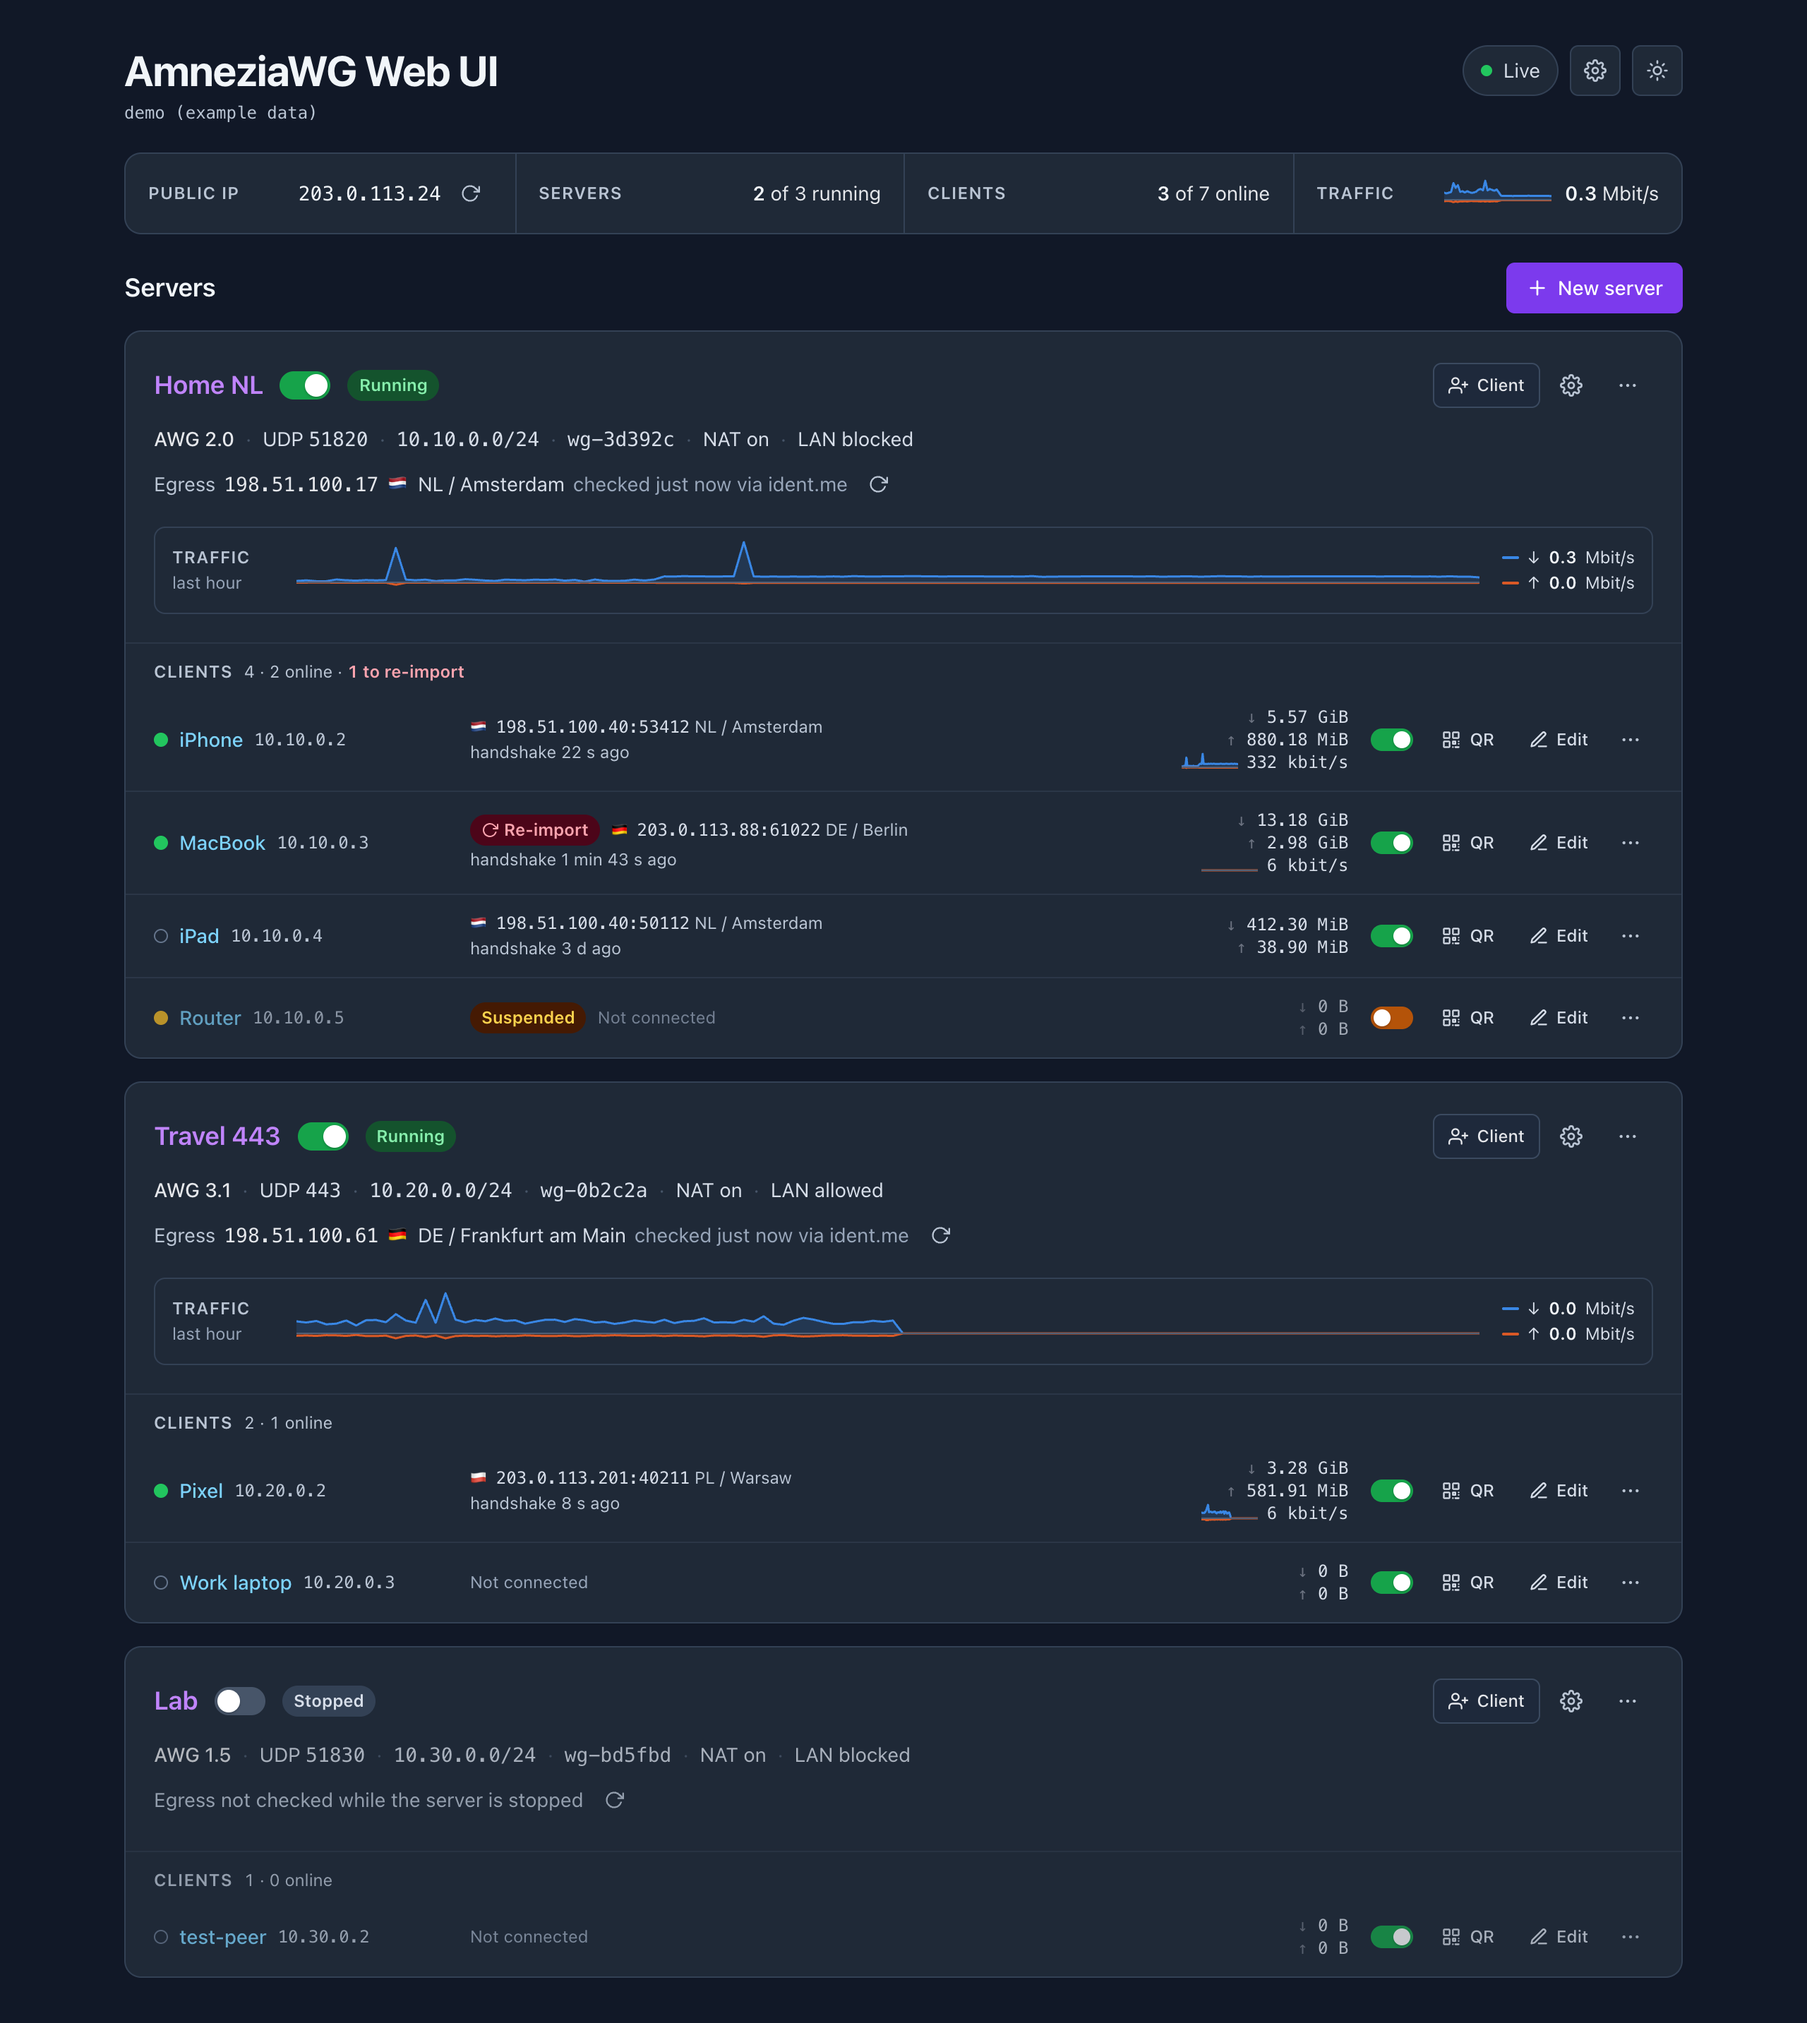
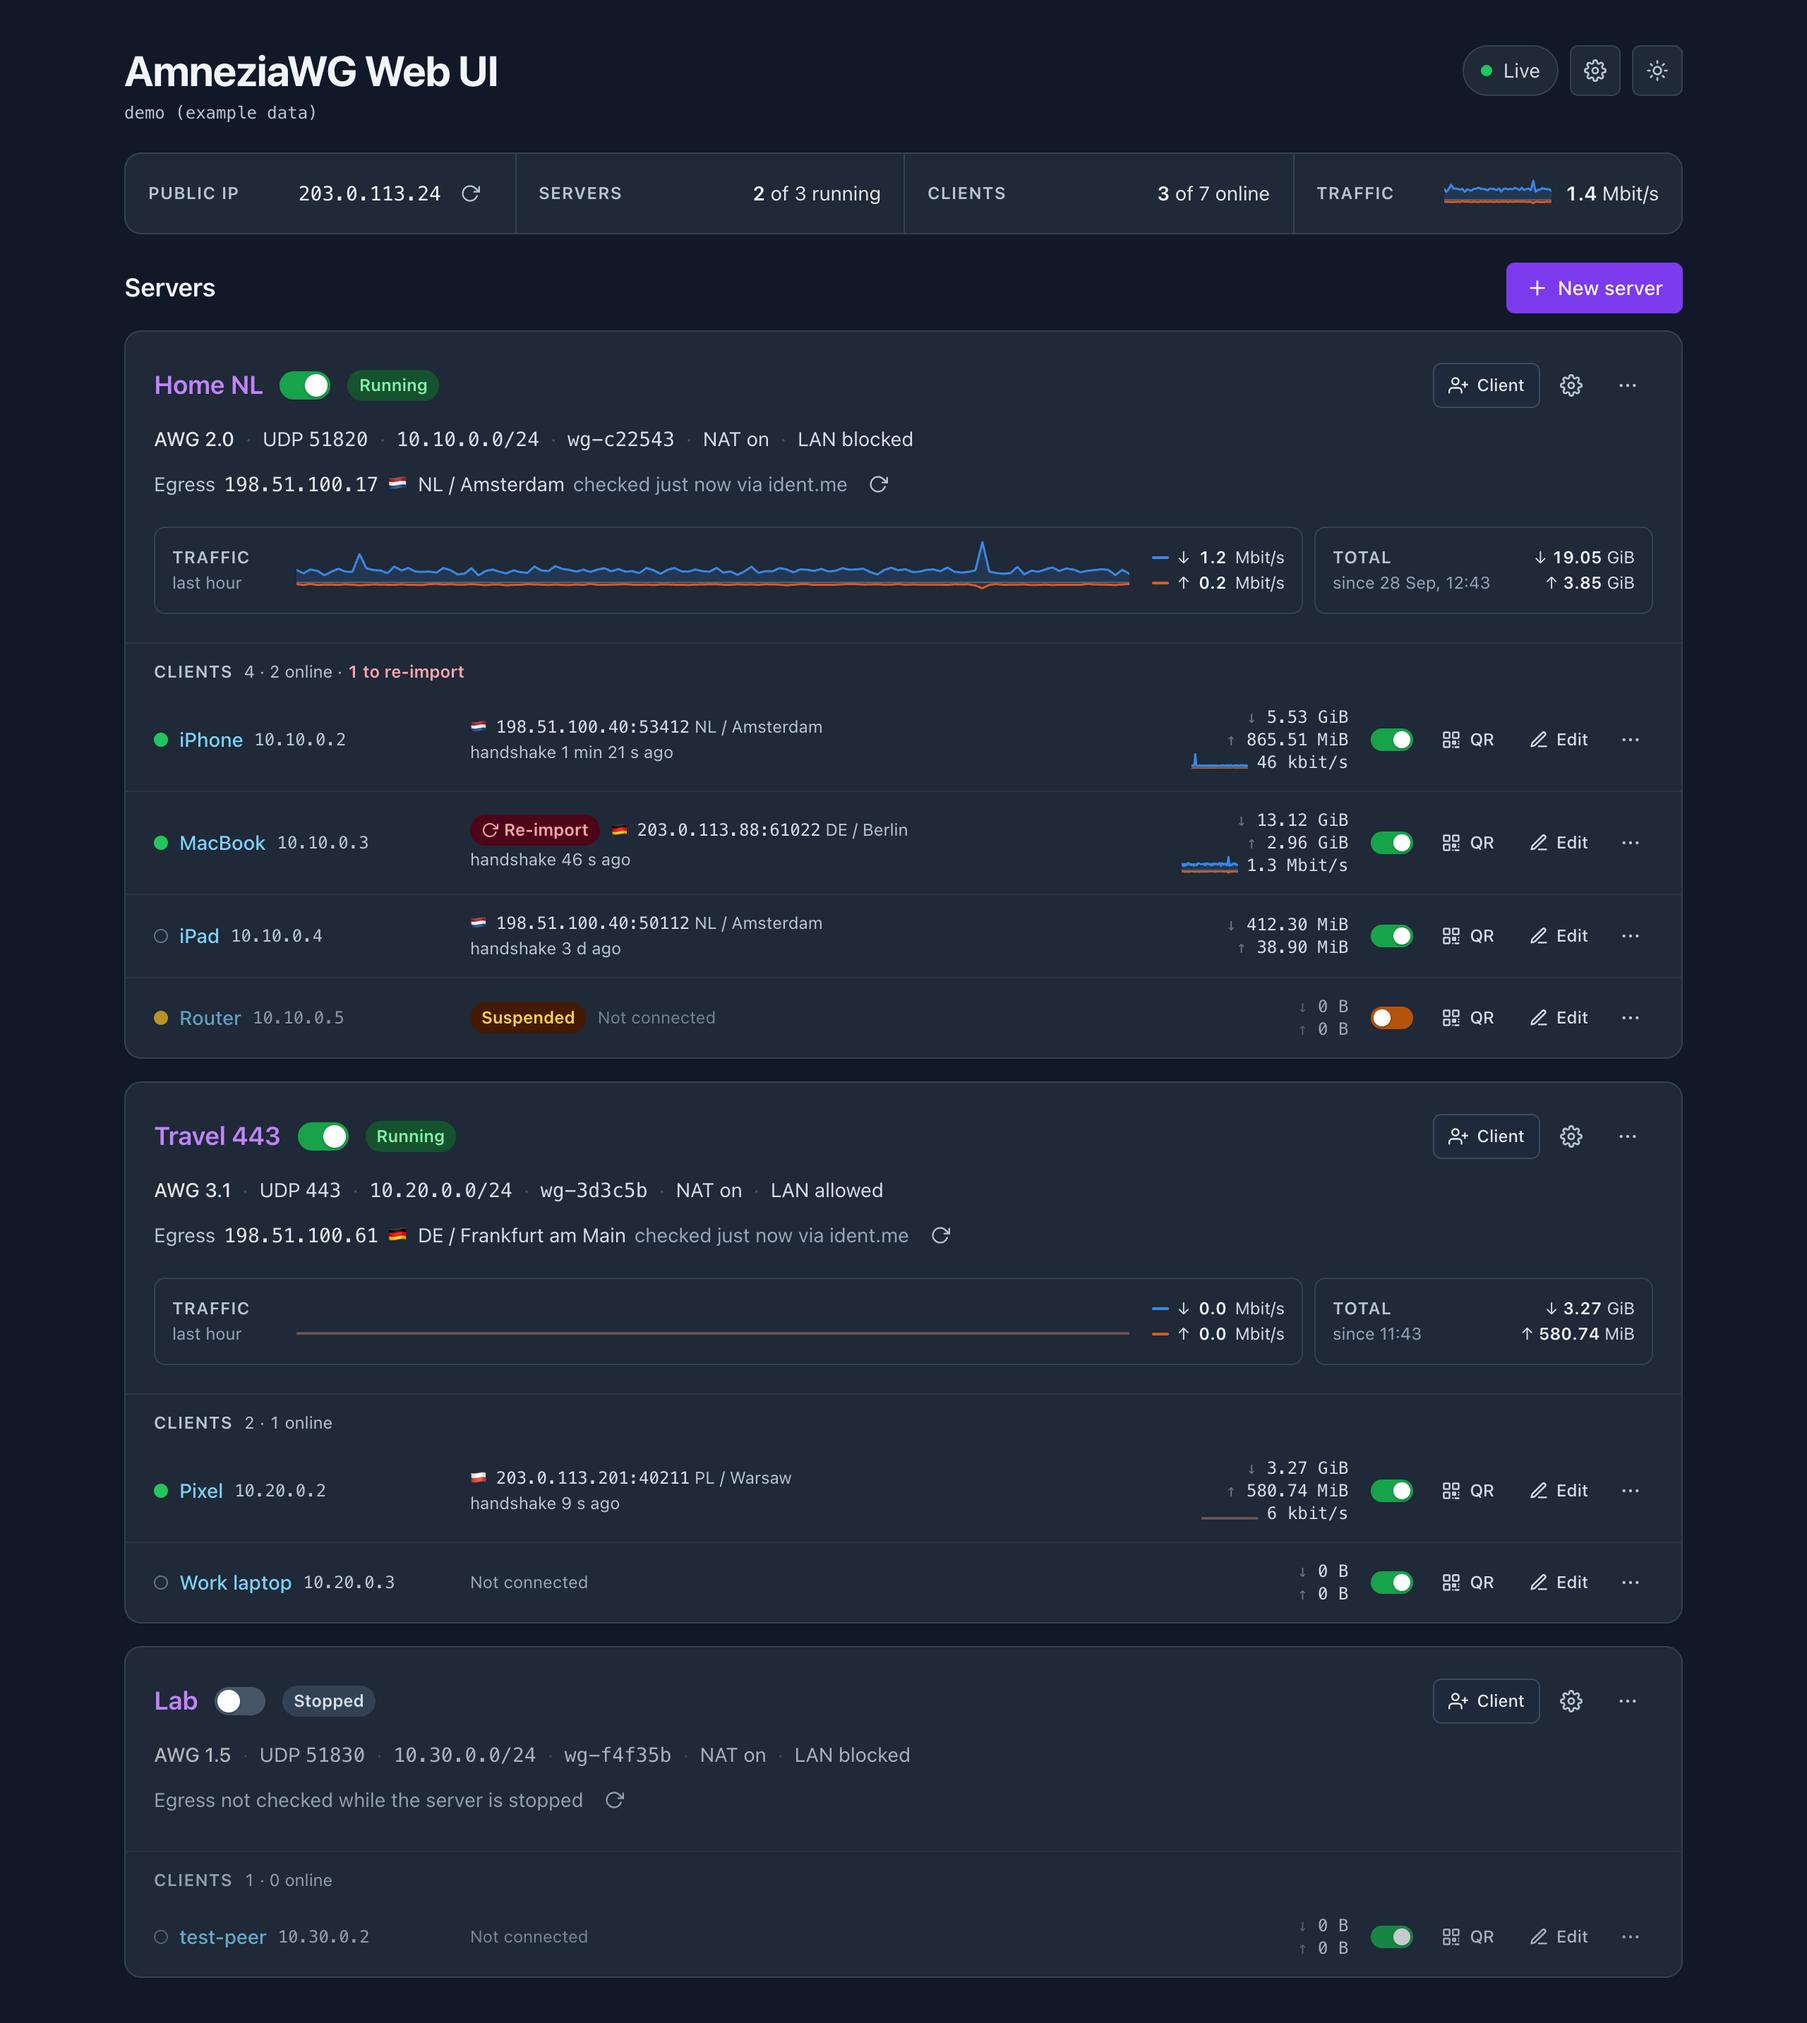
Pyright clean (23 errors to 0); docs and screenshot for the 2.6 release
Routes read data.get(...) once before isinstance, so the narrowing holds.
apply_settings returns without settings (it read None.values); load_config typed.
Tests assert lookups are not None and type mocks, headers and the SSE stream.
Docs: 2.6 released (CHANGELOG date, README version, DEVELOPMENT §10 Releases,
CLAUDE.md state); how to run Pyright (§7); a new screenshot with the totals.

diff --git a/tests/test_config_state.py b/tests/test_config_state.py
@@ -61,8 +61,9 @@ class LegacyConfigMigrationTests(unittest.TestCase):
         self.config_file = os.path.join(self.tmp, "web_config.json")
         Path(self.config_file).write_text(json.dumps(config), encoding="utf-8")
         self.manager = build_manager(config_dir=self.tmp, wireguard_config_dir=self.tmp, config_file=self.config_file)
-        self.server = self.manager.get_server("leg151")
-        self.client = self.manager.get_client("cli151")
+        server, client = self.manager.get_server("leg151"), self.manager.get_client("cli151")
+        assert server is not None and client is not None  # the fixture's ids
+        self.server, self.client = server, client
 
     def tearDown(self):
         shutil.rmtree(self.tmp, ignore_errors=True)
@@ -168,7 +169,9 @@ class TwoStoreMigrationTests(unittest.TestCase):
         self.assertNotIn("clients", manager.config)
         self.assertEqual([c["id"] for c in manager.get_client_configs()], [self.phone["id"]])
         self.assertIs(manager.get_client(self.phone["id"]), manager.get_server(self.home["id"])["clients"][0])
-        self.assertNotIn("server_name", manager.get_client(self.phone["id"]))
+        client = manager.get_client(self.phone["id"])
+        assert client is not None
+        self.assertNotIn("server_name", client)
 
     def test_a_client_only_in_the_map_joins_its_servers_list(self):
         def orphan_from_list(data):

diff --git a/tests/test_api_status.py b/tests/test_api_status.py
@@ -10,6 +10,7 @@ import ast
 import base64
 import contextlib
 import copy
+import email.message
 import importlib.util
 import io
 import json
@@ -34,6 +35,7 @@ PROBE = {
 
 def _load_script():
     spec = importlib.util.spec_from_file_location("api_status", SCRIPT)
+    assert spec is not None and spec.loader is not None, SCRIPT
     module = importlib.util.module_from_spec(spec)
     spec.loader.exec_module(module)
     return module
@@ -114,7 +116,12 @@ class ApiStatusTests(unittest.TestCase):
 
     def test_errors_are_reported(self):
         cases = (
-            (urllib.error.HTTPError("http://panel.test:8080/api/servers", 401, "Unauthorized", {}, None), "HTTP 401"),
+            (
+                urllib.error.HTTPError(
+                    "http://panel.test:8080/api/servers", 401, "Unauthorized", email.message.Message(), None
+                ),
+                "HTTP 401",
+            ),
             (urllib.error.URLError("refused"), "invalid response: <urlopen error refused>"),
         )
         for error, message in cases:

diff --git a/tests/test_traffic_parsing.py b/tests/test_traffic_parsing.py
@@ -32,7 +32,7 @@ def interface_line(iface):
     )  # fmt: skip
 
 
-def peer_line(iface, key, endpoint="198.51.100.7:60848", handshake=NOW - 62, rx=1_457_520, tx=6_909_870):
+def peer_line(iface, key, endpoint="198.51.100.7:60848", handshake=NOW - 62, rx: int | str = 1_457_520, tx=6_909_870):
     return "\t".join([iface, key, "cHNr", endpoint, "10.64.0.2/32", str(handshake), str(rx), str(tx), "off"])
 
 
@@ -179,7 +179,9 @@ class TrafficTests(unittest.TestCase):
     def test_client_status_is_derived_and_never_stored(self):
         self.read({})
         self.assertEqual(self.manager.client_status(self.client), "active")
-        self.assertNotIn("status", self.manager.get_client(self.client["id"]))
+        client = self.manager.get_client(self.client["id"])
+        assert client is not None
+        self.assertNotIn("status", client)
         self.read({"handshake": NOW - 600})
         self.assertEqual(self.manager.client_status(self.client), "inactive")
         # The monitor reads telemetry every 7 s; it must never write the config.

diff --git a/web-ui/services/amnezia_manager.py b/web-ui/services/amnezia_manager.py
@@ -31,7 +31,7 @@ import tempfile
 import threading
 import time
 import uuid
-from typing import ClassVar
+from typing import Any, ClassVar
 
 from core.helpers import is_valid_ip, sanitize_config_value, to_bool
 from core.logging_setup import get_logger
@@ -297,6 +297,8 @@ class AmneziaManager:
 
     def apply_settings(self):
         """Take GeoIP and the daemon's log level from the settings."""
+        if self.settings is None:
+            return
         values = self.settings.values
         self.netinfo.enable_geoip = values["geoip"]
         self.awg_log_level = values["awg_log_level"]
@@ -707,7 +709,7 @@ class AmneziaManager:
 
         return config
 
-    def load_config(self):
+    def load_config(self) -> dict[str, Any]:
         if os.path.exists(self.config_file):
             with open(self.config_file, "r", encoding="utf-8") as f:
                 return self.migrate_config_schema(json.load(f))

diff --git a/tests/test_events.py b/tests/test_events.py
@@ -10,6 +10,7 @@ browser need.
 import json
 import threading
 import unittest
+from typing import cast
 
 from core.events import PING, EventBroadcaster, format_event
 
@@ -102,7 +103,7 @@ class EventsRouteTests(unittest.TestCase):
             self.assertEqual(response.headers["X-Accel-Buffering"], "no")  # nginx passes it through
             self.assertEqual(response.headers["Cache-Control"], "no-cache")
             body = iter(response.response)
-            self.assertTrue(next(body).startswith(b"retry: "))
+            self.assertTrue(cast(bytes, next(body)).startswith(b"retry: "))
             manager.events.publish("server_status", {"server_id": "a1", "status": "stopped"})
             self.assertEqual(parse(next(body)), ("server_status", {"server_id": "a1", "status": "stopped"}))
         finally:

diff --git a/tests/test_netinfo.py b/tests/test_netinfo.py
@@ -9,6 +9,7 @@ tests/test_system_edges.py.
 
 import json
 import unittest
+from typing import Any
 from unittest import mock
 
 # pylint: disable=missing-function-docstring,missing-class-docstring,protected-access,wrong-import-order
@@ -145,7 +146,7 @@ class EgressProbeTests(_Base):
         self.assertEqual(get.call_args.kwargs["source_ip"], "10.0.0.1")
 
     def test_bad_answers_raise_with_the_service_named_once(self):
-        cases = (
+        cases: tuple[tuple[dict[str, Any], str], ...] = (
             ({"return_value": _Response(503)}, r"^https://ident\.me: HTTP 503$"),
             ({"return_value": _Response(text="nope")}, r"^https://ident\.me: invalid IP response 'nope'$"),
             ({"side_effect": OSError("x")}, r"^https://ident\.me: x$"),

diff --git a/web-ui/routes/settings.py b/web-ui/routes/settings.py
@@ -59,8 +59,9 @@ def register_settings_routes(app, amnezia_manager, access, *, build_label):
         """Nothing is applied unless all of it is valid, the current password included."""
         data = request.get_json(silent=True)
         data = data if isinstance(data, dict) else {}
-        changes = data.get("settings") if isinstance(data.get("settings"), dict) else {}
-        credential = data.get("access") if isinstance(data.get("access"), dict) else {}
+        changes, credential = data.get("settings"), data.get("access")
+        changes = changes if isinstance(changes, dict) else {}
+        credential = credential if isinstance(credential, dict) else {}
 
         _values, errors = settings.check(changes)
         if errors:

diff --git a/tests/test_generator.py b/tests/test_generator.py
@@ -144,7 +144,7 @@ class ThroughTheValidatorsTests(unittest.TestCase):
         self.assertTrue(all("-" not in str(awg15[k]) for k in ("H1", "H2", "H3", "H4")))
         awg20 = self.m.generate_transport_params("AWG 2.0", 1420)
         self.assertEqual(set(awg20), {"S1", "S2", "S3", "S4", "H1", "H2", "H3", "H4"})
-        self.assertTrue(all("-" in awg20[k] for k in ("H1", "H2", "H3", "H4")))
+        self.assertTrue(all("-" in str(awg20[k]) for k in ("H1", "H2", "H3", "H4")))
         for protocol in ("AWG 3.0", "AWG 3.1"):
             params = self.m.generate_transport_params(protocol, 1420)
             self.assertTrue(self.m.is_valid_wireguard_key(params["HeaderProtectionKey"]), protocol)

diff --git a/web-ui/services/generator.py b/web-ui/services/generator.py
@@ -171,7 +171,8 @@ def padding_sizes(*, with_s34, header_protection, mtu):
 
 def transport_params(*, with_s34, header_ranges, awg3, mtu, header_protection_key=None):
     """Server-side parameters: S1-S4, H1-H4 and, on AWG 3.x, a HeaderProtectionKey."""
-    params = padding_sizes(with_s34=with_s34, header_protection=awg3, mtu=mtu)
+    # S values are ints; H ranges and the key are strings.
+    params: dict[str, int | str] = {**padding_sizes(with_s34=with_s34, header_protection=awg3, mtu=mtu)}
     for key in ("H1", "H2", "H3", "H4"):
         params[key] = header_range(key) if header_ranges else str(header_single(key))
     if awg3 and header_protection_key:

diff --git a/web-ui/routes/servers.py b/web-ui/routes/servers.py
@@ -128,7 +128,8 @@ def register_server_routes(app, amnezia_manager, *, to_bool):
             if settings is None:
                 abort(400, description="This panel has no settings")
             values, errors = settings.check(data.get("settings") or {})
-            credential = data.get("access") if isinstance(data.get("access"), dict) else {}
+            access = data.get("access")
+            credential = access if isinstance(access, dict) else {}
             errors += Access.check_new(credential.get("user"), credential.get("password"))
             if values.get("awg_log_level") == "debug":
                 warnings.append(

diff --git a/tests/test_http_api.py b/tests/test_http_api.py
@@ -410,7 +410,7 @@ class RouteNotFoundTests(_RealSystemApp):
     def _routes(self, needs):
         for rule in self.app.url_map.iter_rules():
             if needs in rule.arguments:
-                for method in sorted(rule.methods - {"HEAD", "OPTIONS"}):
+                for method in sorted((rule.methods or set()) - {"HEAD", "OPTIONS"}):
                     yield rule, method
 
     def _call(self, rule, method, server_id, client_id="nope"):

diff --git a/README.md b/README.md
@@ -8,7 +8,7 @@ Everything is configurable in the panel, including its own settings (⚙ in the
 header: sign-in, logging, GeoIP). An environment variable can
 pin a setting; only `NGINX_PORT`, `WAN_IF` and `AWG_LOG_FILE` are deployment-only. See [Environment variables](#environment-variables).
 
-Current version: **2.5**
+Current version: **2.6**
 
 > Working on the code? See [DEVELOPMENT.md](DEVELOPMENT.md) for architecture, the
 > state model, protocol/parameter details, conventions and open items.
@@ -293,8 +293,8 @@ This repo includes a convenience script that builds and runs a local container:
 
 ### Image tags
 
-`stalker1211/amneziawg15-web-ui:latest` is the newest build; `:2.5` and so on pin a
-release. The version under the page heading (e.g. `v2.5 build 20261001.1`) shows
+`stalker1211/amneziawg15-web-ui:latest` is the newest build; `:2.6` and so on pin a
+release. The version under the page heading (e.g. `v2.6 build 20261001.1`) shows
 exactly which one is running.
 
 ### Docker Compose Example
